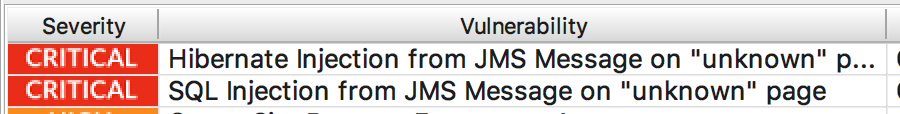
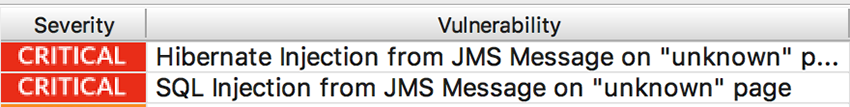
image cropping, final copy edits

diff --git a/content/tools/intellij/IntellijInstall.md b/content/tools/intellij/IntellijInstall.md
@@ -43,11 +43,11 @@ Well done! IntelliJ is configured to get vulnerability information from Contrast
 
 The Vulnerabilities view in IntelliJ shows a list of all the vulnerabilities from Contrast. To sort vulnerabilities, click on the column header. 
 
-<a href="assets/images/IntelliJ-column-header.png" rel="lightbox" title="Filter vulnerabilities"><img class="thumbnail" src="assets/images/IntelliJ-column-header.png"/></a>
+<a href="assets/images/IntelliJ-column-header.png" rel="lightbox" title="Sort vulnerabilities"><img class="thumbnail" src="assets/images/IntelliJ-column-header.png"/></a>
 
-You can also filter them in the **Set Filters** dialog. 
+You can also click on the filter (funnel) icon to open the **Set Filters** dialog. 
 
-<a href="assets/images/IntelliJ-plugin-filter.png" rel="lightbox" title="Filter vulnerabilities"><img class="thumbnail" src="assets/images/IntelliJ-plugin-filter.png"/></a>
+<a href="assets/images/IntelliJ-plugin-filter.png" rel="lightbox" title="Filter vulnerabilities in the dialog"><img class="thumbnail" src="assets/images/IntelliJ-plugin-filter.png"/></a>
 
 For more information on a vulnerability, double-click on its entry in the list.
 

diff --git a/content/tools/visualstudio/VisualstudioInstall.md b/content/tools/visualstudio/VisualstudioInstall.md
@@ -66,6 +66,6 @@ If you can't see your vulnerabilities list, click the Refresh button. This also 
 
 > **Note:** If you can't see your vulnerabilities even after refreshing the list, you must filter your vulnerabilities. You must repeat this  process after selecting a different organization in the Connection settings so that filters and vulnerabilities are refreshed correctly.
 
-Under the **Actions** column, you can use the left button (magnifier glass icon) to see more information about the vulnerability. You can use the button to the right (browser link icon) to go to the Vulnerability page in the Contrast application.
+Under the **Actions** column, you can use the button on the left (magnifier glass icon) to see more information about the vulnerability. You can use the button to the right (browser link icon) to go to the Vulnerability page in the Contrast application.
 
 <a href="assets/images/VS_ext_action_buttons.png" rel="lightbox" title="View vulnerability details"><img src="assets/images/VS_ext_action_buttons.png"/></a>
